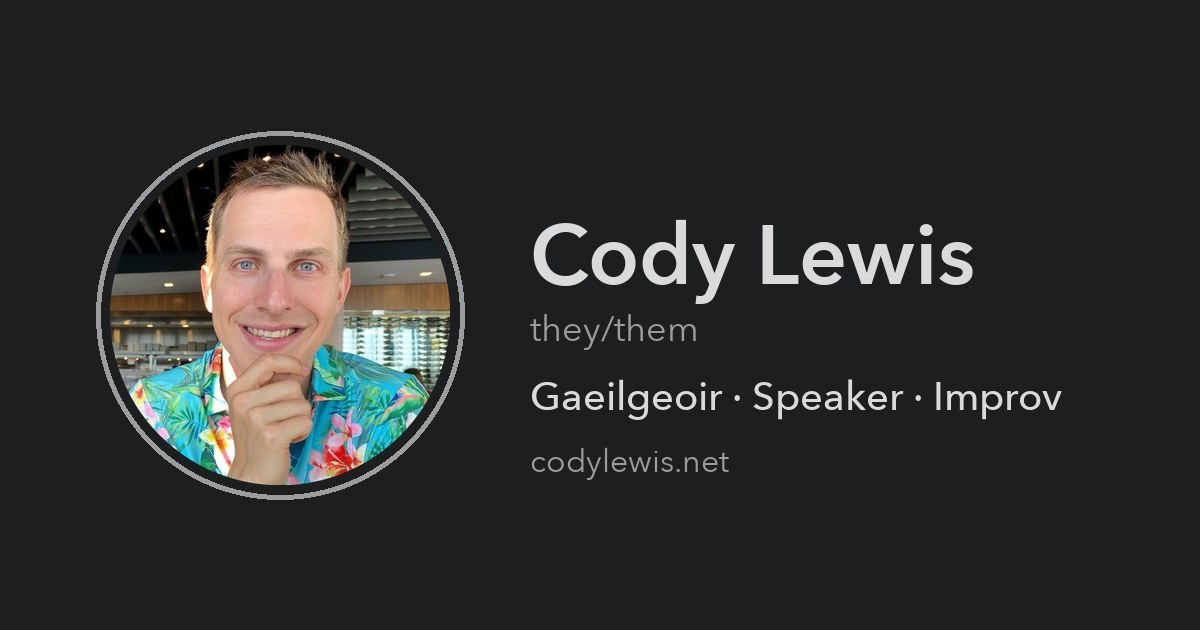
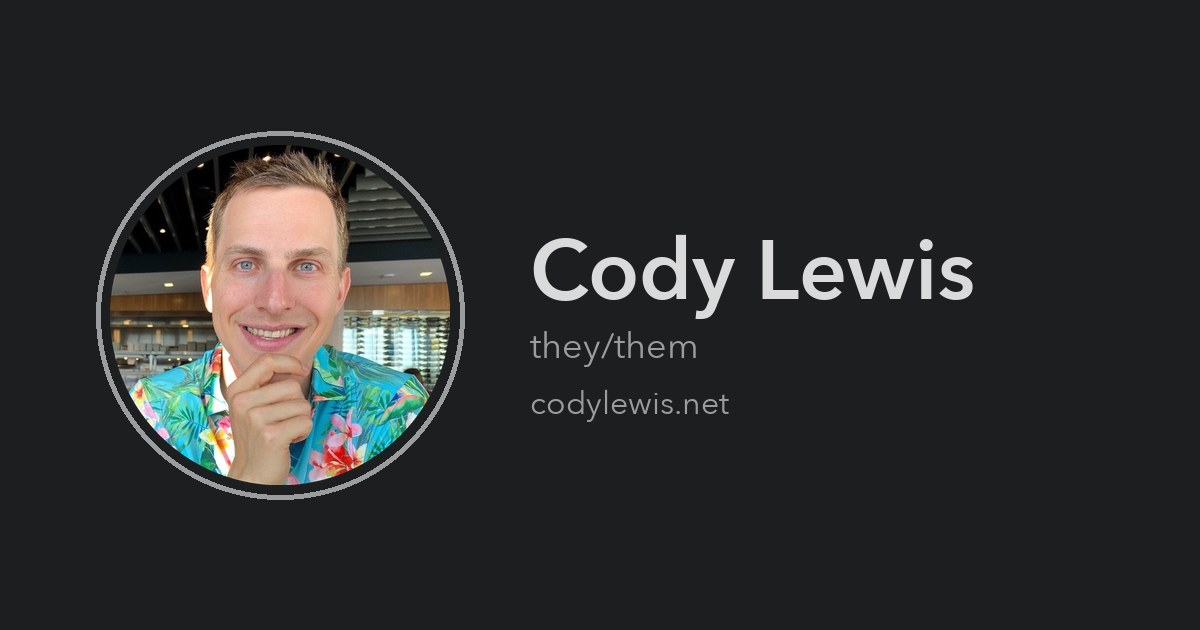
Remove tagline from homepage and social cards; trim .gitignore
Use the bio as the page description instead.

diff --git a/layouts/_partials/index_profile.html b/layouts/_partials/index_profile.html
@@ -34,8 +34,6 @@
         <p class="greeting" lang="ga">{{ . }}</p>
         {{- end }}
         <h1>{{ .title | default site.Title }}{{ with .pronouns }} <span class="pronouns">{{ . }}</span>{{ end }}</h1>
-        {{- /* Emoji are decorative; hide them so screen readers just read the words */}}
-        <span>{{ .subtitle | markdownify | replaceRE `([\x{1F1E6}-\x{1F1FF}]{2}|\p{So})` `<span aria-hidden="true">$1</span>` | safeHTML }}</span>
         {{- with .bio }}
         <p class="bio">{{ . | markdownify }}</p>
         {{- end }}
